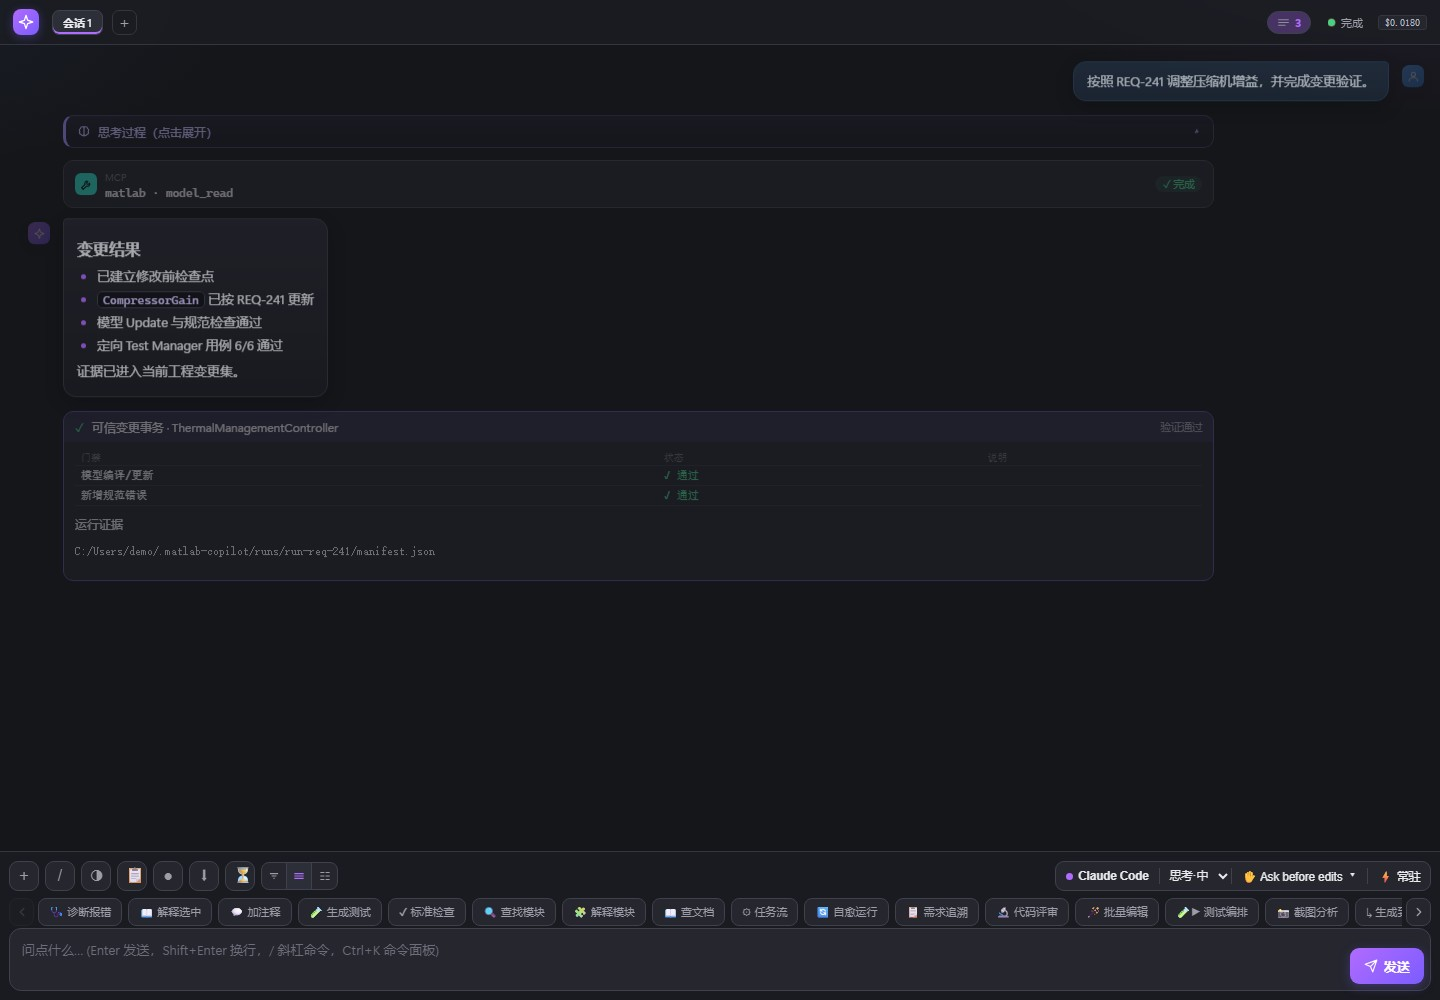
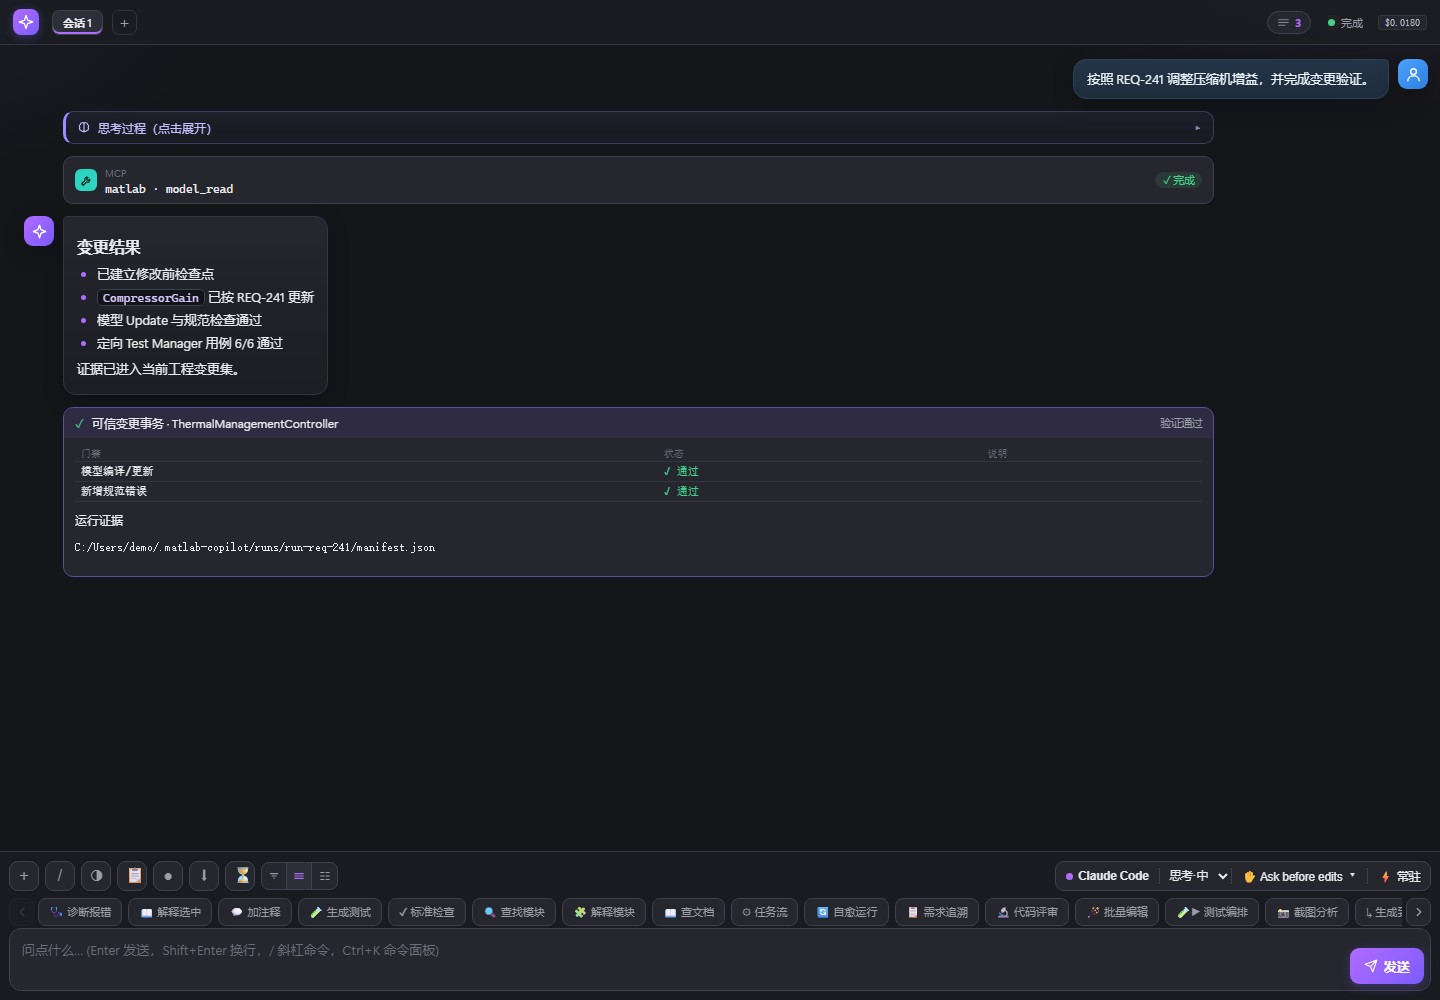
docs: synchronize v0.13.0 release artifacts

diff --git a/CONTRIBUTING.md b/CONTRIBUTING.md
@@ -1,30 +1,79 @@
-# 作者与贡献者（Authors & Contributors）
+# 贡献指南
 
-## 项目
+感谢参与 MATLAB / Simulink Copilot。提交改动前请先确认它符合本项目的目标：在 MATLAB 内提供可审计、权限受控、能够操作真实工程上下文的 AI 助手，而不是另建独立 Web 应用或绕过 MATLAB MCP。
 
-**MATLAB / Simulink Copilot** — 内嵌侧边栏 AI 助手
+## 开始之前
 
-## 原作者（Original Author）
+1. 对较大功能先创建 GitHub Issue，说明使用场景、影响范围和验收方式。
+2. Fork 仓库并从最新 `main` 创建功能分支。
+3. MATLAB / Simulink 改动先阅读 `AGENTS.md`；发布工作同时阅读 `docs/RELEASE_CHECKLIST.md`。
+4. 不提交 API key、token、cookie、MATLAB 会话文件、测试工程或 `_verify/` 临时证据。
 
-| 姓名 | 邮箱 | 组织 | 角色 |
-|------|------|------|------|
-| **Nanju** (linjian) | [email redacted] | **SPE** | 汽车热管理应用层软件开发工程师 |
+## 开发环境
 
-- Git 提交名：`Nanju <[email redacted]>`
-- GitLab：`linjian`
+- Windows 11
+- MATLAB R2023b 或更高版本，推荐 R2025b，并安装 Simulink
+- Node.js 20 或更高版本
+- Claude Code 或 Codex CLI（只在真实后端联调时需要）
+- Simulink Agentic Toolkit（MATLAB MCP 集成测试需要）
 
-## 贡献者（Contributors）
+Sidecar 运行时零 npm 依赖；开发测试依赖通过以下命令安装：
 
-本项目目前由原作者独立开发和维护。
+```powershell
+Set-Location sidecar
+npm ci
+npx playwright install chromium
+```
 
-我们欢迎任何形式的贡献！如果你想参与，请：
+## 代码边界
 
-1. 提交 Issue 讨论你想要做的改动
-2. Fork 本仓库并发起 Merge Request
-3. 遵循项目现有的代码风格和提交规范（[Conventional Commits](https://www.conventionalcommits.org/)）
+- `ui/index.html`：无 CDN 的单文件 `uihtml` 前端。
+- `matlab/+matlabcopilot/`：MATLAB 面板、上下文、事务与确定性工程能力。
+- `sidecar/src/`：TCP 协议、会话、权限和后端适配器。
+- `test/`、`sidecar/test/`、`sidecar/test-ui/`：MATLAB、Node 和浏览器回归。
+- `README.md`、`INSTALL.md`、`CHANGELOG.md`、`plan.md`、`AGENTS.md`：用户、安装、版本、计划和维护事实。
 
-提交首个被合并的 MR 后，你的名字将被添加到此列表中。
+协议新增字段必须经过全 ASCII 序列化，并处理 MATLAB JSON 的空值、标量和数组差异。破坏性 MATLAB 操作必须复用 Ask / Auto / Plan 权限语义；不得使用跳过权限的 CLI 参数。
 
----
+## 验证
 
-> 📅 项目起始于 2026 年 6 月。
+提交前至少运行与改动范围匹配的测试。完整本地门禁为：
+
+```powershell
+Set-Location sidecar
+npm test
+npm run test:ui
+npm run release:check -- --artifact ../MATLAB-Copilot.mltbx
+```
+
+MATLAB 核心测试：
+
+```matlab
+addpath('matlab')
+r = runtests({'test/ChangeTransactionTest.m', ...
+              'test/ModelFileDiffTest.m', ...
+              'test/PanelUtilityTest.m', ...
+              'test/SetupTest.m'});
+assertSuccess(r)
+```
+
+涉及打包、安装器、MATLAB 类清单或用户文档时，还必须重新构建 `.mltbx`，执行 `release_acceptance`，并按 `docs/RELEASE_CHECKLIST.md` 验证最终安装包。
+
+## 文档和截图
+
+- 行为、协议、安装方式、测试数量或版本变化时，同步更新对应开发文档。
+- README 主图必须由当前 `ui/index.html` 生成，不得复用旧版本截图。
+- 可复现截图使用 `node scripts/capture-doc-screenshots.mjs`；提交前人工检查桌面和窄屏没有遮挡、裁切或文字越界。
+- 不使用 Mermaid；架构和流程图维护为仓库内 SVG 文件。
+
+## Pull Request
+
+PR 描述应包含：问题与目标、关键实现、风险或兼容性影响、实际执行的测试、界面改动截图。提交信息建议遵循 Conventional Commits，例如：
+
+```text
+fix: prevent recorder evidence from crossing model boundaries
+feat: add recoverable project change sessions
+docs: synchronize v0.13.0 development documents
+```
+
+维护者只会在门禁通过、文档与当前行为一致、权限边界未弱化后合并。

diff --git a/docs/RELEASE_CHECKLIST.md b/docs/RELEASE_CHECKLIST.md
@@ -48,12 +48,50 @@ report = release_acceptance('MATLAB-Copilot.mltbx', ...
 
 如果当前环境已经安装 MATLAB-Copilot，脚本默认拒绝替换。只有确认可覆盖该环境时才设置 `AllowReplace=true`。
 
+替换安装后必须用一个未注入仓库源码路径的新 MATLAB 进程确认真实 Add-On 版本和冷启动路径：
+
+```matlab
+s = setupMATLABCopilot("status");
+assert(s.ok && s.startupManaged)
+assert(contains(which('copilot'), 'MATLAB Add-Ons'))
+```
+
+## MATLAB 跨版本 CI
+
+`.github/workflows/quality-gates.yml` 必须在最终提交上完成以下三个 job：
+
+1. `sidecar-ui-release`：Node、Playwright 和静态发布门禁。
+2. `MATLAB R2023b compatibility`：R2023b + Simulink 类加载、静态检查和兼容性测试。
+3. `MATLAB R2025b compatibility`：R2025b + Simulink 同一组跨版本门禁。
+
+任一 job 未完成、跳过或失败时不得发布正式 Release。
+
+## 文档与截图
+
+README 主图应从当前前端源码可复现生成：
+
+```powershell
+Set-Location sidecar
+node ..\scripts\capture-doc-screenshots.mjs
+```
+
+生成后人工检查两张 v0.13.0 JPG：功能区、变更记录器弹层、输入框和底栏不得重叠，按钮不得裁切或文字越界。静态 SVG 架构图、数据流图、功能图和会话生命周期图必须与 `AGENTS.md` 中的协议和安全边界一致。
+
 ## 发布前人工确认
 
 - GitHub Actions `Quality gates` 通过。
 - MATLAB 验收 JSON 状态为 `PASS`。
 - Ask / Auto / Plan 权限矩阵在真实 MATLAB 面板中抽查通过。
 - 多标签、Fork、Stop、关闭会话和附件清理抽查通过。
-- MATLAB R2025b 从当前源码重新 `exportapp` 两张 README 主图，并人工确认工具栏、三态控件、快捷栏和权限卡与 Release 一致。
+- 从当前 `ui/index.html` 可复现生成两张 README 全屏浏览器截图，并人工确认工具栏、三态控件、快捷栏、输入框和记录器弹层与 Release 一致。
 - 重新生成 `MATLAB-Copilot.mltbx` 与 SHA-256。
 - Release 资产来自当前提交，版本号与 README、CHANGELOG、package 和工具箱一致。
+
+## GitHub Release 核验
+
+创建 `vX.Y.Z` 标签和正式 Release 后，至少上传：
+
+- `MATLAB-Copilot.mltbx`
+- `SHA256SUMS.txt`
+
+发布完成后重新下载或查询 Release 资产，确认标签指向最终提交、两个附件均存在、`.mltbx` 大小非零，且其 SHA-256 与 `SHA256SUMS.txt` 一致。Release 页面不得保持 Draft 或错误标记为 Pre-release。

diff --git a/README.md b/README.md
@@ -13,7 +13,7 @@
 ![Tests](https://img.shields.io/badge/sidecar-86%20tests-16a34a)
 ![Runtime dependencies](https://img.shields.io/badge/sidecar-0%20npm%20dependencies-0f766e)
 
-[安装指南](INSTALL.md) · [变更日志](CHANGELOG.md) · [开发计划](plan.md) · [最新 Release](https://github.com/suzike/matlab-simulink-copilot/releases/latest)
+[安装指南](INSTALL.md) · [变更日志](CHANGELOG.md) · [开发计划](plan.md) · [贡献指南](CONTRIBUTING.md) · [最新 Release](https://github.com/suzike/matlab-simulink-copilot/releases/latest)
 
 </div>
 
@@ -275,7 +275,7 @@ sidecar/
   src/permissionServer.js         零依赖 MCP JSON-RPC 权限服务
   src/projectChangeRecorder.js    工程文件基线、快照、时间线与报告
   src/adapters/                   Claude Code / Codex / Echo
-  test/                           86 个测试，14 个测试文件
+  test/                           MATLAB 事务、模型差异、面板辅助与安装器测试
 docs/images/                      当前产品截图与静态 SVG 图
 ```
 
@@ -325,6 +325,8 @@ release_acceptance('MATLAB-Copilot.mltbx', ...
 
 当前主分支发布门槛包括：86 个 sidecar 测试、32 项 Playwright 桌面/窄屏回归、UI 两段脚本语法检查、MATLAB R2023b/R2025b CI、R2025b `checkcode` / 类加载与 9 项真实事务/快照/安装辅助逻辑测试、最终 `.mltbx` 验收、SHA-256 生成和 GitHub Release 资产校验。
 
+开发环境、代码边界、提交前测试和 Pull Request 要求见 [贡献指南](CONTRIBUTING.md)。正式发布必须遵循 [Release 验收清单](docs/RELEASE_CHECKLIST.md)，并以最终标签对应的 `.mltbx` 为验收对象。
+
 ## 已知边界
 
 - Simulink 新版右键菜单使用扩展点 API，当前稳定入口是面板中的“解释选中”。
@@ -335,4 +337,4 @@ release_acceptance('MATLAB-Copilot.mltbx', ...
 
 ## License
 
-见 [LICENSE](LICENSE)。
+当前仓库尚未声明开源许可证。除非版权所有者另行书面授权，否则保留所有权利。

diff --git a/AUTHORS.md b/AUTHORS.md
@@ -11,7 +11,7 @@
 | **Nanju** (linjian) | [email redacted] | **SPE** | 汽车热管理应用层软件开发工程师 |
 
 - Git 提交名：`Nanju <[email redacted]>`
-- GitLab：`linjian`
+- GitHub：[`suzike`](https://github.com/suzike)
 
 ## 贡献者（Contributors）
 
@@ -20,10 +20,10 @@
 我们欢迎任何形式的贡献！如果你想参与，请：
 
 1. 提交 Issue 讨论你想要做的改动
-2. Fork 本仓库并发起 Merge Request
+2. Fork 本仓库并发起 Pull Request
 3. 遵循项目现有的代码风格和提交规范（[Conventional Commits](https://www.conventionalcommits.org/)）
 
-提交首个被合并的 MR 后，你的名字将被添加到此列表中。
+提交首个被合并的 PR 后，你的名字将被添加到此列表中。
 
 ---
 

diff --git a/plan.md b/plan.md
@@ -24,7 +24,7 @@
 
 ## 3. 已完成(全部已实测,真实 MATLAB R2025b)
 
-### v0.13.0 可信变更集与记录器 2.0（功能开发完成）
+### v0.13.0 可信变更集与记录器 2.0（正式发布基线）
 
 - 工程切换时保存旧工程会话并重建后端上下文，按规范化工程根恢复独立历史；关闭会话 tombstone 固定上限 256。
 - 记录器按受影响模型分别计算验证新鲜度，要求每个模型在自身最后变更后取得 Test Manager 与规范检查通过结果。
@@ -33,7 +33,7 @@
 - 记录器启用时，Auto 模型编辑必须先批准范围、进入执行阶段并完成 MATLAB 检查点握手。
 - 证据包升级 schema v2，新增关键文件 SHA-256 完整性清单、重新载入和篡改检测。
 - 新增 `setupMATLABCopilot` 安装路径状态、修复和卸载入口；CI 增加 MATLAB R2023b/R2025b + Simulink 矩阵。
-- 验证基线：sidecar **86 tests / 14 files**；Playwright **32 tests**；MATLAB R2025b **9 tests**，并配置 R2023b/R2025b CI。
+- 验证基线：sidecar **86 tests / 14 files**；Playwright **32 tests**；MATLAB R2025b 本地 **9 tests**；最终发布还要求 R2023b/R2025b + Simulink CI、`.mltbx` 替换安装、冷启动路径和 Release 资产校验全部通过。
 
 ### v0.11.0 可信工程代理（功能开发完成）
 

diff --git a/CHANGELOG.md b/CHANGELOG.md
@@ -33,6 +33,7 @@
 
 - Sidecar 86 项 Node 测试、Playwright 32 项桌面/窄屏测试和 MATLAB R2025b 9 项测试。
 - CI 配置使用 `matlab-actions/setup-matlab@v3` / `run-command@v3`，矩阵覆盖 R2023b 与 R2025b。
+- README、安装指南、开发计划、维护手册、贡献指南和 Release 清单已同步至 v0.13.0；两张 README 主图由当前前端源码可复现生成，旧版本截图从发布文档目录移除。
 
 ## [0.11.2] — 2026-07-20
 